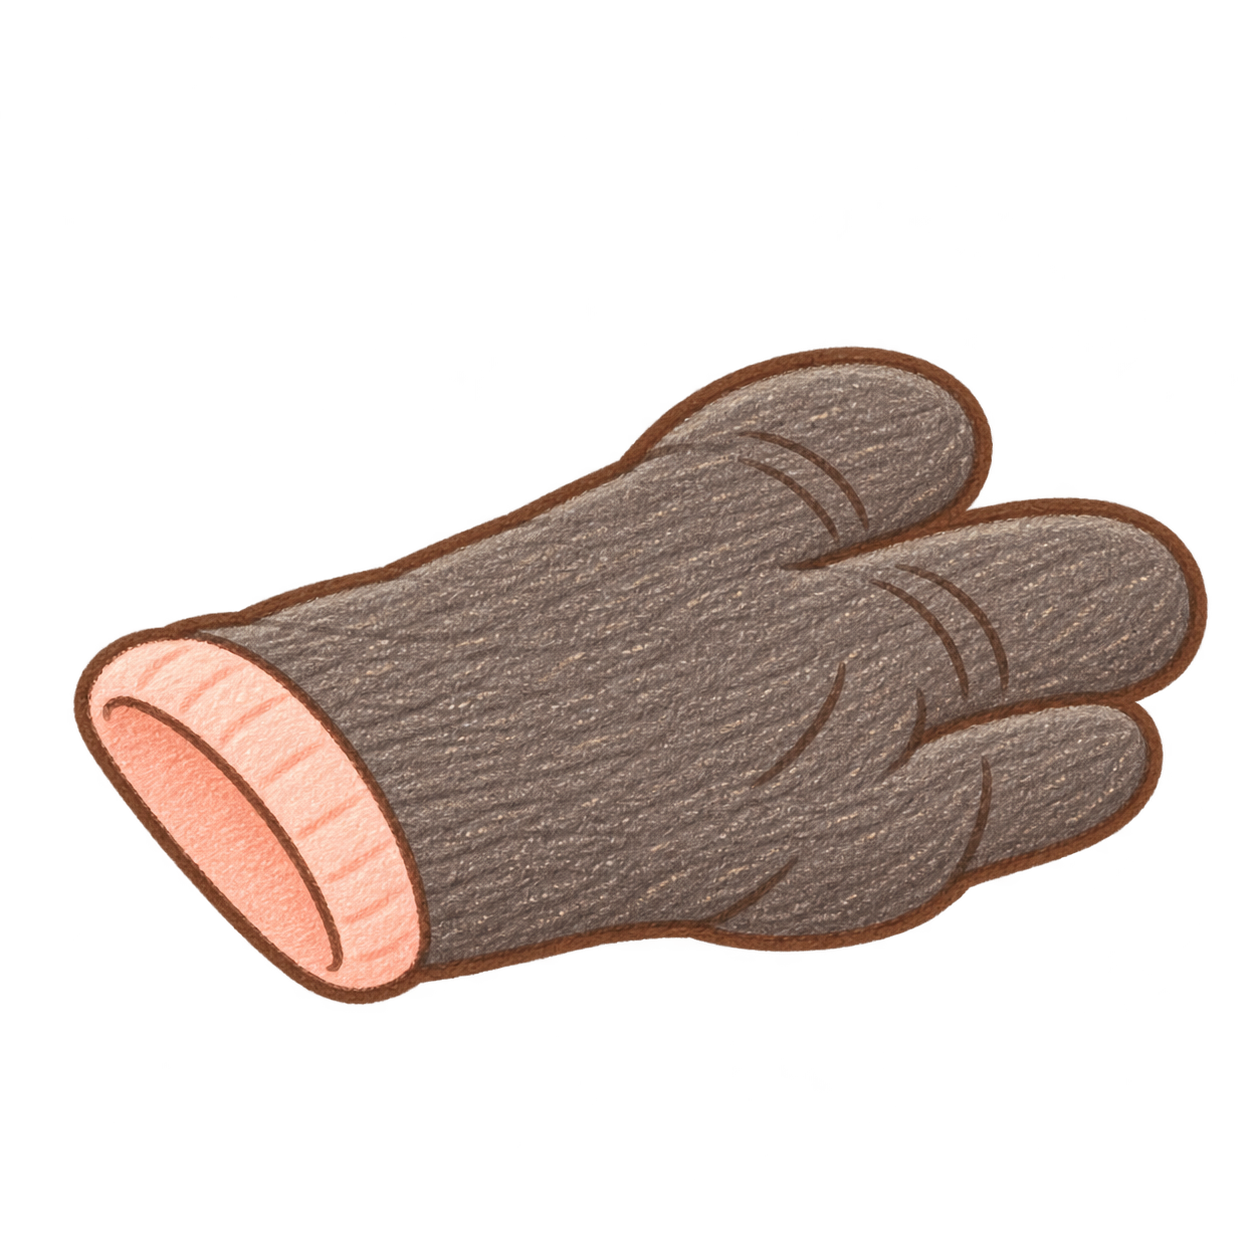
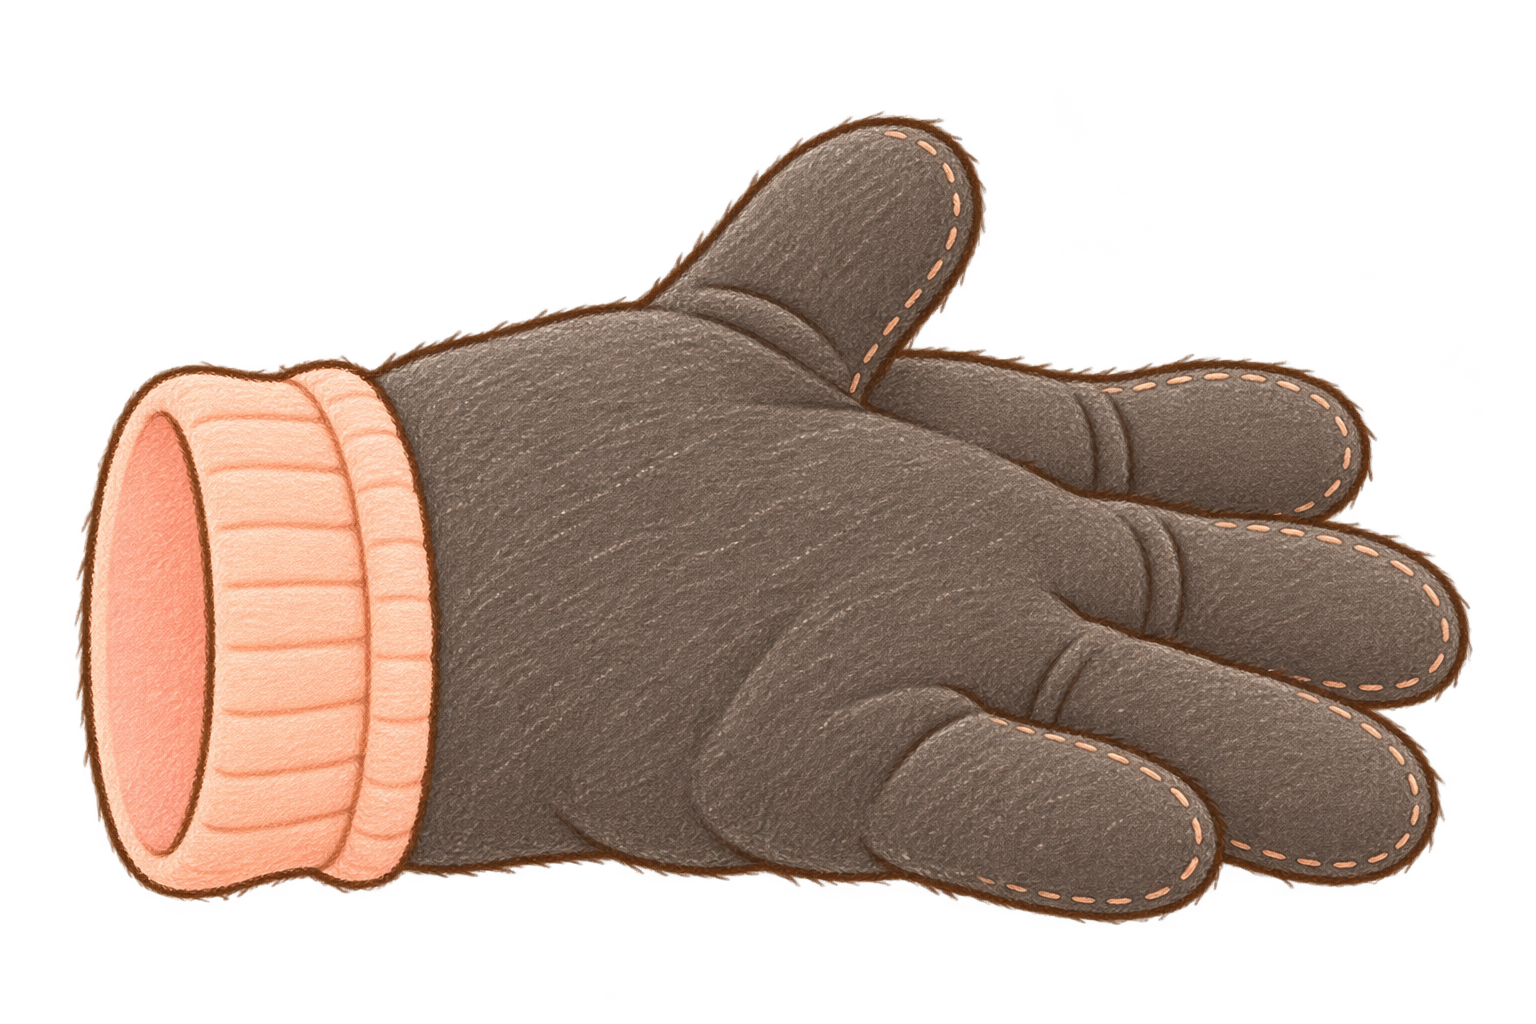
L6 vẽ lại găng tay đen (vắt rào, rơi): dáng gợi mèo ngồi, có đường may, vải xù; giữ cỡ và neo

diff --git a/art/review/l6_glove_redo_brief.md b/art/review/l6_glove_redo_brief.md
@@ -1,0 +1,85 @@
+VẼ LẠI 2 MÓN — lượt `l6_glove` (Level 6, G6-21: chủ dự án chơi thử, găng tay vẽ lại đẹp hơn), đúng quy tắc trong AGENTS.md (vai Codex: chỉ vẽ; mỗi món một lần gọi image_gen, mỗi món một ảnh, 2 món).
+
+**Ảnh demo gốc đã duyệt: art/out/demo/l6_demo_path_916.png** (khung điện thoại); vùng chơi không giao diện: **art/out/demo/l6_demo_path_play.png** (1024x1536). Găng trong demo nằm ở **x 385–455, y 340–440** của vùng chơi: găng đen vắt trên đỉnh hàng rào, cạnh chuông gió. Ảnh cắt: art/ref/l6_cut/crops/glove.png.
+Bản tách cũ (chủ dự án chê đơn giản, xám, giống găng hở ngón cứng): art/out/_sheets/l6src_l6_glove_black_idle.png, art/out/_sheets/l6src_l6_glove_black_fallen.png. **Được phép ghi đè hai file này.**
+
+## Luật chung
+- Giữ đúng ý demo (găng đen vắt đỉnh rào, cổ găng hồng đào), nhưng **vẽ đẹp và kỹ hơn** theo mô tả từng món. Cùng phong cách, màu, nét như các món L6 khác trong demo.
+- Mỗi món: gọi image_gen **một lần**, đính kèm ảnh demo gốc + ảnh cắt glove.png + ảnh tham chiếu chung. **Nền TRONG SUỐT thật.** Món to hết cỡ trong khung, lề trong suốt khoảng 40px (G5-34), không bị cắt.
+- **Chỉ đúng một món** trong ảnh: KHÔNG vẽ hàng rào, trời, sân, bóng, quầng, viền trắng. Không chữ, không số.
+- **Màu găng:** đen than ấm **#3E3838** (đúng ô màu Mun), **không đen kịt, không xám lạnh**; thấy rõ vân chì và lấm tấm giấy kem trong mảng đen, vài nét chì sáng hơn ở chỗ phồng (sáng từ trên trái). Cổ găng hồng đào #F7B9A3 nhạt, có gân đan dọc đơn giản.
+- Lưu nguyên ảnh vào đúng đường dẫn, không cắt, không xử lý.
+- Trước mỗi lần gọi image_gen viết "Nhắc lại quy tắc" (phong cách, góc nhìn, màu, nét, phần lấy / không lấy). Tin nhắn cuối có "Tự kiểm" **từng món** (dáng, màu, chi tiết, nền trong suốt, không chữ: đạt / không đạt + lý do), SAVED từng file, prompt cuối từng món.
+
+## Ảnh tham chiếu chung (mở hết bằng view_image)
+1. art/out/demo/l6_demo_path_916.png — **ẢNH DEMO GỐC**.
+2. art/out/demo/l6_demo_path_play.png — vùng chơi của demo.
+3. art/ref/l6_cut/crops/glove.png — găng cắt từ demo.
+4. art/ref/owner_l1_style_ref.png — chuẩn màu và chất chì.
+5. art/ref/l1_depth_angle_ref.png — góc nhìn (sofa L1).
+6. art/out/cats/mun_ref.png — mèo đen Mun: **chỉ để găng gợi dáng một con mèo đen ngồi** (cùng màu đen than ấm, cùng cỡ dáng ngồi), **KHÔNG vẽ mặt, mắt, mũi, râu, đuôi mèo thật**.
+
+## Danh sách 2 món
+
+### 1. `l6_glove_black_idle` → art/out/_sheets/l6src_l6_glove_black_idle.png (1024x1536, nền trong suốt)
+Găng tay làm vườn bằng vải đen than ấm **vắt trên đỉnh hàng rào** (không vẽ rào): đầu ngón và lòng găng ở trên, cổ găng thòng xuống phía dưới, nhìn thẳng từ trước.
+- **Liếc qua giống một con mèo đen nhỏ ngồi** (đồ đánh lừa): **hai ngón (ngón trỏ và ngón út) dựng lên hơi tách ra như hai tai mèo**, hai ngón giữa gập xuống ra sau nên đỉnh găng tròn như đầu mèo giữa hai "tai"; lòng găng phồng tròn như thân mèo ngồi; **ngón cái cong ra một bên ở dưới như cái đuôi cuộn**; cổ găng loe ra ở đáy như chỗ mèo ngồi.
+- **Nhìn kỹ là găng tay rõ ràng:** ngón mềm đầu tròn, có nếp nhăn vải ở khớp ngón, **đường may chỉ chạy dọc mép ngón** (nét đứt chì nhỏ màu nâu nhạt), vải hơi xù (mép viền có vài sợi lông vải ngắn), **cổ găng đan hồng đào bo viền** có gân dọc, thấy một chút lòng trong cổ găng.
+- Không có mặt, mắt, mũi, râu. Dáng mềm, mũm mĩm, dễ thương, ít chi tiết.
+- Đáy cổ găng phẳng ngang. Đỉnh hai "tai" là điểm cao nhất (neo đỉnh vắt mép rào).
+
+### 2. `l6_glove_black_fallen` → art/out/_sheets/l6src_l6_glove_black_fallen.png (1536x1024, nền trong suốt)
+**Cùng chiếc găng ở món 1** (vẽ món 1 trước rồi đính kèm art/out/_sheets/l6src_l6_glove_black_idle.png làm tham chiếu): cùng màu đen than ấm, cùng cổ găng hồng đào, cùng đường may, vải xù, cùng độ dày nét, cùng cỡ găng.
+- Găng **nằm bẹp trên mặt sân**, xoè ngang: cổ găng bên trái (thấy lòng trong cổ găng hồng nhạt), năm ngón duỗi mềm sang phải, hơi rủ, ngón cái chìa lên một chút. Thấy mặt trên mu găng theo góc nhìn hơi từ trên xuống, dày vải mềm, không phẳng như giấy.
+- Hết dáng "mèo": không còn hai ngón dựng. Đáy phẳng như nằm trên đất.
+- KHÔNG vẽ sân, bóng.
+
+## Khối phong cách (art/style.md mục 1), dán nguyên
+
+```
+You are the artist for a cute 2D mobile puzzle game about finding cats ("Meo Đâu Rồi?").
+Every image you draw for this project MUST follow this style:
+
+STYLE
+- Hand-drawn look, like a children's picture book drawn with soft colored pencils.
+- Visible light colored-pencil texture and gentle grainy strokes inside the color areas.
+- Outlines: thin, slightly wobbly hand-drawn colored-pencil lines in warm dark brown (never pure black), with natural pressure variation like a real pencil: a bit darker and thicker in tucked-in places, overlaps and folds, lighter and tapering at the stroke ends, with small breaks along fluffy fur edges. Never one uniform, evenly thick, clean vector line.
+- Fur and soft edges: the outline can be drawn as short broken pencil strokes following the fur, sometimes in a slightly lighter brown.
+- Shapes: simple, round, chubby, soft corners. Slightly crooked and playful, never perfectly geometric.
+- Cute and funny ("kawaii" but not anime): big heads, small bodies, round eyes, tiny mouths.
+
+COLOR (locked to the Level 1 reference image)
+- The reference image art/ref/owner_l1_style_ref.png is ALWAYS attached. Match its palette, lightness, softness and pencil grain exactly. When in doubt, go lighter and softer, never stronger.
+- Soft, light, slightly muted pastels on warm cream paper, like gentle colored pencil: airy and cheerful, but never vivid, never deep, never neon, and never grey or washed out.
+- Use ONLY this palette (approximate): cream paper #FCF1DD, warm white #FFFAF0, outline brown #6B4A3A, honey wood #F2C796, caramel #D6A472, peach #F7B9A3, powder pink #F8C6CC, butter yellow #FCE39A, mint #B9DDBE, leaf green #9DC283, sky blue #B8DAF2, lavender #D8CCF0. Only for the black cat Mun: warm charcoal #3E3838.
+- No color may be more saturated or darker than its palette swatch. No deep purple or violet, no royal or cobalt blue, no coral or salmon red, no orange, no strong lemon yellow, no bright turquoise.
+- Large areas (walls, floors, curtains, beds, big furniture, big balls or bags) stay the lightest and softest colors in the picture; only small accents may be a little stronger.
+- Walls are warm cream or a very pale tint of a palette color, never pure white and never a strong tint.
+- Every color area shows visible light pencil grain with tiny cream paper gaps: no flat solid fills, no smooth digital gradients, no glossy highlights, no 3D render look.
+- Medium-low saturation, soft contrast; colors still read clearly at small size. No strong dark shadows; shading is only a few soft pencil strokes on one side.
+
+SIMPLICITY
+- Very few details. Each object is recognisable from its silhouette alone.
+- NO complex patterns, NO tiny ornaments, NO busy textures, NO realistic wood grain or fabric weave.
+- Allowed patterns only when the design asks for it, and then big and simple (3-5 stripes, 5-7 big dots).
+- Backgrounds are calm and simple, with lots of empty space.
+
+ABSOLUTE RULES
+- NO text, NO letters, NO numbers, NO logos, NO watermark, NO signature anywhere. Labels and signs use simple pictures only.
+- One object per image unless the spec says otherwise, centered, fully visible, not cropped.
+- Sprites (characters, objects, UI): transparent background, no floor shadow unless asked.
+- Backgrounds: portrait 2:3 (1024x1536), seen straight from the front, slightly top-down, no characters.
+- Keep the same character exactly the same across all images (use the reference images I upload).
+```
+
+## Khối góc nhìn (art/style.md mục 2b), dán nguyên
+
+```
+CAMERA (one shared camera for the whole game): look at everything the way the SOFA in the attached Level 1 angle reference is seen, with objects showing a bit more depth.
+Almost straight-on front view, eye a little above the objects, looking down gently. Horizontal edges stay horizontal, vertical edges stay vertical. No diagonal rotation, no three-quarter view.
+Depth is shown by the TOP faces, like the sofa seat: depth edges run almost straight up, converging only very slightly toward the picture centre. Deeper objects show taller top faces: a bed shows its mattress top as a large clear area, a desk top is clearly visible and deeper than a bookshelf top.
+Side faces are very thin, like the sofa arms: objects on the left half show a very thin right side, objects on the right half a very thin left side.
+Nothing is a flat paper cut-out: every object shows its top face and its thickness; round objects have a few pencil shading strokes and elliptical openings. Stacked or neighbouring objects share the same view.
+Room backgrounds like Level 1: back wall seen straight on, skirting and floor boards horizontal.
+Light from the upper left: a few pencil shading strokes on the right and bottom. No floor shadow.
+```

diff --git a/art/design-art-level6.md b/art/design-art-level6.md
@@ -86,13 +86,13 @@ Mỗi món một ảnh `art/out/_sheets/l6src_<key>.png` (Codex tách, brief `ar
 | l6src_l6_toolbox | 0,0,1536,1024 | l6_toolbox | level6 |  | đáy | rộng 175 | 5 |
 | l6src_l6_tree | 0,0,1024,1536 | l6_tree | level6 |  | đáy | rộng 285 | 5 |
 | l6src_l6_bird_nest | 0,0,1254,1254 | l6_bird_nest | level6 |  | tâm | rộng 70 | 5 |
-| l6src_l6_glove_black_idle | 0,0,1254,1254 | l6_glove_black_idle | level6 | glove | đỉnh | rộng 75 | 5 |
+| l6src_l6_glove_black_idle | 0,0,1024,1536 | l6_glove_black_idle | level6 | glove | đỉnh | rộng 75 | 5 |
 | l6src_l6_veggie_bed | 0,0,1536,1024 | l6_veggie_bed | level6 |  | đáy | rộng 475 | 5 |
 | l6src_l6_watering_can | 0,0,1254,1254 | l6_watering_can | level6 |  | đáy | rộng 205 | 5 |
 | l6src_l6_picnic_basket_open | 0,0,1254,1254 | l6_picnic_basket_open | level6 | basket | đáy | rộng 190 | 5 |
 | l6src_l6_dog_house | 0,0,1254,1254 | l6_dog_house | level6 | dog_house | đáy | rộng 320 | 5 |
 | l6src_l6_picnic_basket_closed | 0,0,1254,1254 | l6_picnic_basket_closed | level6 | basket | đáy | rộng 192 | 5 |
-| l6src_l6_glove_black_fallen | 0,0,1254,1254 | l6_glove_black_fallen | level6 | glove | đáy | rộng 124 | 5 |
+| l6src_l6_glove_black_fallen | 0,0,1536,1024 | l6_glove_black_fallen | level6 | glove | đáy | rộng 124 | 5 |
 | l6src_l6_bone | 0,0,1536,1024 | l6_bone | level6 |  | tâm | rộng 80 | 5 |
 | l6src_l6_sausage | 0,0,1536,1024 | l6_sausage | level6 |  | tâm | rộng 90 | 5 |
 | l6src_l6_dog_chew | 0,0,1254,1254 | l6_dog_chew | level6 |  | đáy | rộng 210 | 5 |
@@ -153,13 +153,13 @@ Mỗi món một ảnh `art/out/_sheets/l6src_<key>.png` (Codex tách, brief `ar
 - `l6_toolbox` (lượt `props_a`): Hộp dụng cụ hồng đào nhạt, nắp phẳng thấy rõ mặt trên, quai vàng caramel thấp trên nắp, khoá vàng nhỏ ở giữa mặt trước. **Không lấy:** KHÔNG lấy phuy bên dưới.
 - `l6_tree` (lượt `props_b`, vẽ lại lượt `fix`; **trong game Dev phóng lên rộng 430**, ×1,5 so với ảnh xuất 296x487, để ngọn cây cao như demo, D6-20): **Vẽ lại cho đẹp như cây trong cảnh Mun ăn trên bàn** (ảnh tree_table_demo.png): thân gỗ nâu mật ong cong mềm chia 2–3 nhánh, **tán tròn mập nhiều cụm bông xù xanh lá nhạt pha kem**, vài lá nhỏ vẽ nét bên trong tán, một cành ngang bên phải để đặt ổ chim (không vẽ ổ). Tán dày, tròn đều, không lởm chởm. Màu xanh lá nhạt pha kem như mẫu L1, không xanh tươi. **Không lấy:** KHÔNG lấy ổ chim (món riêng), bụi cây dưới gốc, hàng rào, giỏ, Mun.
 - `l6_bird_nest` (lượt `props_b`): Ổ chim rơm vàng caramel nhạt, hình bát tròn, thấy lòng ổ hơi tối, rơm đan vài nét. **Không lấy:** KHÔNG lấy cành cây, lá.
-- `l6_glove_black_idle` (lượt `props_b`): Găng tay vải đen than ấm vắt qua đỉnh rào, **hai ngón dựng như hai tai mèo**, lòng găng tròn, cổ găng viền hồng đào thòng xuống. Vẽ găng như đang vắt trên một mép ngang (phần trên gập qua), nhưng không vẽ hàng rào. **Không lấy:** KHÔNG lấy hàng rào, trời.
+- `l6_glove_black_idle` (lượt `props_b`): Găng tay vải đen than ấm vắt qua đỉnh rào, **hai ngón dựng như hai tai mèo**, lòng găng tròn, cổ găng viền hồng đào thòng xuống. Vẽ găng như đang vắt trên một mép ngang (phần trên gập qua), nhưng không vẽ hàng rào. **Không lấy:** KHÔNG lấy hàng rào, trời. **G6-21 vẽ lại (lượt `l6_glove`, brief `art/review/l6_glove_redo_brief.md`):** găng năm ngón vải đen than ấm, ngón trỏ và ngón út dựng như tai mèo, hai ngón giữa gập, ngón cái cuộn như đuôi, đường may nét đứt, vải xù, cổ găng đan hồng đào; không mặt. Cỡ, neo giữ nguyên (rộng 75, neo đỉnh).
 - `l6_veggie_bed` (lượt `props_b`): Luống rau trong khung gỗ thấp mật ong nhạt, đất nâu, 3 cụm rau xanh lá nhạt (xà lách, cải) tròn mập. **Không lấy:** KHÔNG lấy sàn gạch.
 - `l6_watering_can` (lượt `props_b`): Bình tưới xanh trời nhạt, quai cong trên, vòi dài chĩa phải, sen tưới tròn có lỗ chấm. **Không lấy:** KHÔNG lấy sàn, chuồng.
 - `l6_picnic_basket_open` (lượt `props_b`): Giỏ picnic mây vàng caramel nhạt, **nắp mở lật ra sau**, trong giỏ trống thấy lòng giỏ, quai cầm hai bên. **Không lấy:** KHÔNG lấy mặt bàn, cây.
 - `l6_dog_house` (lượt `props_b`): Chuồng gỗ mật ong nhạt ván dọc, **mái tam giác hồng phấn nhạt** nhô ra, cửa vòm. **Trong cửa vòm để TRỐNG, tô tối nâu ấm đặc** (không có Lu, không xương), ngưỡng cửa gỗ ở đáy. **Không lấy:** KHÔNG lấy Lu, khúc xương, bình tưới, tường kho.
 - `l6_picnic_basket_closed` (lượt `states`): **Chỉnh sửa từ ảnh art/out/_sheets/l6src_l6_picnic_basket_open.png** (giữ nguyên khung, cỡ, vị trí, màu, nét): **nắp đóng** khít, khăn kẻ ô hồng kem thò ra mép nắp, quai cầm trên nắp như giỏ ở cảnh mở màn. **Không lấy:** KHÔNG lấy bàn.
-- `l6_glove_black_fallen` (lượt `states`): **Chỉnh sửa từ ảnh art/out/_sheets/l6src_l6_glove_black_idle.png** (giữ màu, nét, cỡ găng): găng **nằm bẹp dưới đất**, xoè ngang, hai ngón không còn dựng, cổ găng hồng đào lộ ra. Đáy phẳng.
+- `l6_glove_black_fallen` (lượt `states`): **Chỉnh sửa từ ảnh art/out/_sheets/l6src_l6_glove_black_idle.png** (giữ màu, nét, cỡ găng): găng **nằm bẹp dưới đất**, xoè ngang, hai ngón không còn dựng, cổ găng hồng đào lộ ra. Đáy phẳng. **G6-21 vẽ lại (lượt `l6_glove`):** cùng chiếc găng nằm bẹp, cổ găng bên trái, năm ngón duỗi sang phải, ngón cái chìa lên. Cỡ, neo giữ nguyên (rộng 124, neo đáy).
 - `l6_bone` (lượt `states`): Khúc xương kem trắng ấm hai đầu tròn kép, đúng như khúc xương Lu ngậm trong demo. Nằm ngang. **Không lấy:** KHÔNG lấy Lu, chuồng.
 - `l6_sausage` (lượt `states`): Khúc xúc xích hồng đào nhạt bóng nhẹ, hai đầu tròn, cong nhẹ, nguyên vẹn (chưa cắn). Nằm ngang. **Không lấy:** KHÔNG lấy Mun, bàn.
 - `l6_dog_chew` (lượt `states`): Đầu Lu (lu_ref) + hai bàn chân trước, như đang thò ra khỏi cửa chuồng: tai cụp vàng mật ong, mắt híp vui, má hồng, **ngậm khúc xương kem ngang miệng**, hai chân trước tì đất. Đáy phẳng (cắt ngang ở ngưỡng cửa). **Không lấy:** KHÔNG lấy chuồng, cửa vòm tối, ngưỡng cửa.

diff --git a/art/review/level6-thread.md b/art/review/level6-thread.md
@@ -384,3 +384,5 @@
 - Cây hạ thấp để gốc chạm nền sân.
 - Hộp dụng cụ (chỗ ban đầu) thấp xuống và dịch phải một chút.
 - Lu ngậm xương về chuồng: đi vòng ra trước cửa chuồng rồi chui vào, không đi xuyên qua chuồng.
+
+**A6-13 (Art, trả G6-21: găng tay).** Vẽ lại `l6_glove_black_idle`, `l6_glove_black_fallen` (Codex lượt `l6_glove`, brief `art/review/l6_glove_redo_brief.md`, kèm demo gốc, owner_l1_style_ref, l1_depth_angle_ref, mun_ref). Găng vắt rào: ngón trỏ, ngón út dựng như tai mèo, ngón cái cuộn như đuôi, cổ găng hồng đào như thân ngồi; nhìn kỹ có đường may, nếp vải, vải xù; không mặt. Găng rơi: cùng găng nằm bẹp, năm ngón duỗi. Cỡ, neo giữ nguyên: idle ảnh 128x174 (trước 128x171), neo đỉnh; fallen 202x124, neo đáy. Dev không phải đặt lại.
